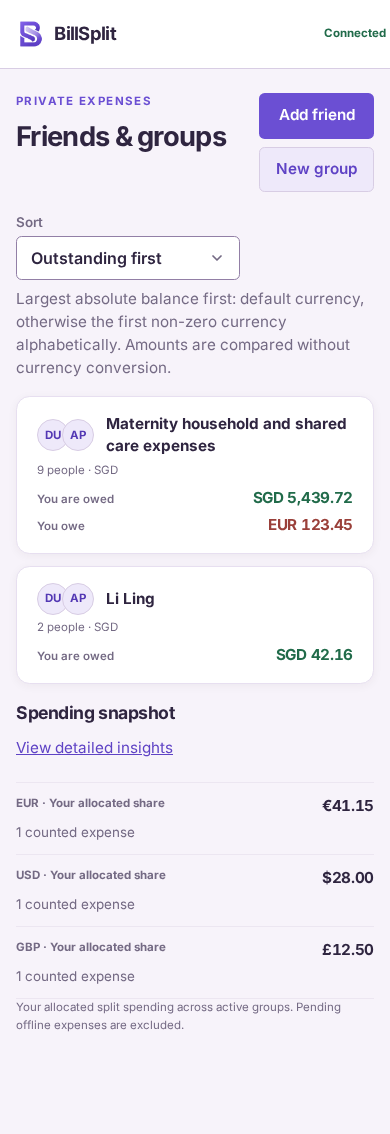
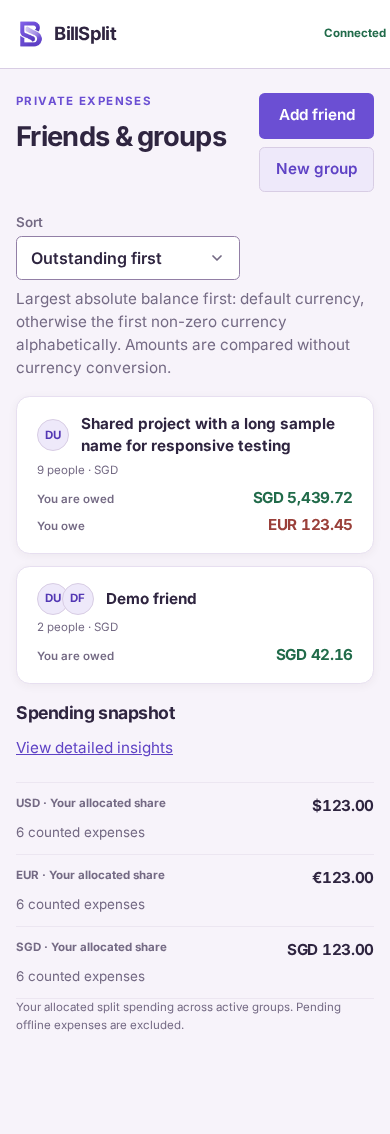
Use generic demo data for Home screenshots

diff --git a/tests/e2e/home-insights-surfaces.spec.ts b/tests/e2e/home-insights-surfaces.spec.ts
@@ -3,6 +3,14 @@ import type { Page, TestInfo } from '@playwright/test';
 import { test, expect, newAuthenticatedContext, seedOfflineTrust, BASE_URL, DEV_EMAIL } from './fixtures';
 
 async function captureHome(page: Page, testInfo: TestInfo, name: string) {
+  await expect(page.locator('.card__name').filter({ hasText: 'Demo friend' })).toHaveText('Demo friend');
+  await expect(page.locator('.card__name').filter({ hasText: name.startsWith('home-mobile') || name.startsWith('home-desktop') ? 'Sample project' : 'Shared project with a long sample name for responsive testing' })).toBeVisible();
+  await expect(page.getByLabel('Spending snapshot by currency')).toBeVisible();
+  await expect(page.locator('.group-card .avatar').filter({ hasText: 'DU' }).first()).toHaveAttribute('aria-label', 'Demo user');
+  await expect(page.locator('.group-card .avatar').filter({ hasText: 'DF' }).first()).toHaveAttribute('aria-label', 'Demo friend');
+  await expect(page.locator('.avatar img')).toHaveCount(0);
+  const text = await page.locator('body').innerText();
+  expect(text).not.toMatch(/Li Ling|Maternity|shared care|Dev User|Alex|Priya|[\w.+-]+@[\w.-]+\.[a-z]{2,}|\b[a-f0-9]{64}\b/i);
   await page.evaluate(() => document.fonts.ready);
   const destination = process.env.UPDATE_HOME_SCREENSHOTS === '1'
     ? path.join(process.cwd(), 'docs', 'screenshots', `${name}.png`)
@@ -15,26 +23,37 @@ const shortId = '00000000-0000-4000-8000-000000003001';
 const longId = '00000000-0000-4000-8000-000000003003';
 const insightsId = '00000000-0000-4000-8000-000000003002';
 
+// Construct screenshot data rather than inheriting backend names or avatar preferences.
+async function mockAnonymousHome(page: Page, stress = false) {
+  await page.route('**/api/me', async (route) => {
+    const response = await route.fetch();
+    const { id, personId, profileRevision, updatedAt, idleExpiresAt } = await response.json();
+    await route.fulfill({ response, json: { id, personId, profileRevision, updatedAt, idleExpiresAt, email: DEV_EMAIL, name: 'Demo user', avatarMode: 'initials' } });
+  });
+  await page.route('**/api/invitations', (route) => route.fulfill({ json: { invitations: [] } }));
+  await page.route('**/api/groups', async (route) => {
+    const response = await route.fetch();
+    await route.fulfill({ response, json: { groups: [
+    { id: shortId, name: 'Demo friend', currency: stress ? 'SGD' : 'USD', kind: 'named', memberCount: 2, counterpartName: 'Demo friend', counterpartAvatar: { avatarMode: 'initials' }, createdAt: '2026-01-01', updatedAt: '2026-01-01', balanceSummaries: [{ currency: stress ? 'SGD' : 'USD', netMinor: 4216 }] },
+    { id: longId, name: stress ? 'Shared project with a long sample name for responsive testing' : 'Sample project', currency: stress ? 'SGD' : 'EUR', kind: 'named', memberCount: 9, createdAt: '2026-01-01', updatedAt: '2026-01-01', balanceSummaries: stress ? [{ currency: 'SGD', netMinor: 543972 }, { currency: 'EUR', netMinor: -12345 }] : [{ currency: 'EUR', netMinor: -12345 }] },
+    ] } });
+  });
+  await page.route('**/api/spending-insights?*', (route) => route.fulfill({ json: { scope: 'global', summaries: ['USD', 'EUR', 'SGD'].map((currency) => ({ currency, groupSpendMinor: 24600, allocatedSpendMinor: 12300, yourShareMinor: 12300, youPaidMinor: 15000, expenseCount: 6 })) } }));
+}
+
 test('Home cards retain compact, accessible balance geometry across the navigation boundary', async ({ browser }, testInfo) => {
   for (const width of [320, 390, 768, 895, 896, 1440]) {
     const context = await newAuthenticatedContext(browser, DEV_EMAIL, { width, height: 844 }, { serviceWorkers: 'block' });
     try {
       const page = await context.newPage();
-      await page.route('**/api/groups', async (route) => {
-        const response = await route.fetch();
-        const body = await response.json();
-        await route.fulfill({ response, json: { ...body, groups: [
-          { ...body.groups[0], id: shortId, name: 'Li Ling', currency: 'SGD', kind: 'named', memberCount: 2, balanceSummaries: [{ currency: 'SGD', netMinor: 4216 }] },
-          { ...body.groups.find((group: { id: string }) => group.id === longId), name: 'Maternity household and shared care expenses', currency: 'SGD', kind: 'named', memberCount: 9, balanceSummaries: [{ currency: 'SGD', netMinor: 543972 }, { currency: 'EUR', netMinor: -12345 }] },
-        ] } });
-      });
+      await mockAnonymousHome(page, true);
       await page.goto(`${BASE_URL}/`);
       await expect(page.getByRole('heading', { name: 'Friends & groups' })).toBeVisible();
       const cards = page.locator('a.group-card');
       await expect(cards).toHaveCount(2);
       for (const [index, id] of [shortId, longId].entries()) {
         await expect(cards.nth(index)).toHaveAttribute('href', `/groups/${id}`);
-        await expect(cards.nth(index)).toHaveAccessibleName(index === 0 ? /Li Ling.*SGD.*42\.16/s : /Maternity household.*SGD.*5,439\.72.*EUR.*123\.45/s);
+        await expect(cards.nth(index)).toHaveAccessibleName(index === 0 ? /Demo friend.*SGD.*42\.16/s : /Shared project.*SGD.*5,439\.72.*EUR.*123\.45/s);
       }
       const geometry = await page.evaluate(() => {
         const cards = [...document.querySelectorAll<HTMLElement>('.group-card')];
@@ -96,6 +115,7 @@ test('Home cards retain compact, accessible balance geometry across the navigati
       await page.reload();
       await expect(sort).toHaveValue('outstanding');
       await expect(cards.first()).toHaveAttribute('href', `/groups/${longId}`);
+      await seedOfflineTrust(page);
       await page.unroute('**/api/groups');
       await page.route('**/api/groups', (route) => route.fulfill({ status: 503, contentType: 'application/json', body: JSON.stringify({ error: 'Unavailable' }) }));
       await page.reload();
@@ -118,6 +138,7 @@ test('Home cards retain compact, accessible balance geometry across the navigati
 for (const [device, width] of [['mobile', 390], ['desktop', 1440]] as const) {
   test(`Home reference screenshots at ${device} size`, async ({ authenticatedPage: page }, testInfo) => {
     await page.setViewportSize({ width, height: device === 'mobile' ? 844 : 900 });
+    await mockAnonymousHome(page);
     await page.goto('/');
     await expect(page.locator('.group-card').first()).toBeVisible();
     await expect(page.getByRole('combobox', { name: 'Sort', exact: true })).toHaveValue('name');

diff --git a/docs/responsive-audit-matrix.md b/docs/responsive-audit-matrix.md
@@ -209,12 +209,16 @@ sections, accessible tabs and chart are checked at 390 and 1440px; other Insight
 widths and Home loading/cached/offline/empty/error states remain in the existing
 route audit and targeted fixtures, not this focused geometry spec.
 
-Loaded local-browser references (Home/global references retain their earlier capture):
+Loaded local-browser references (all six Home images regenerated with anonymous,
+fully synthetic demo groups, balances and spending summaries; identity is Demo user
+and avatars use only demo initials, with no inherited names or avatar hashes):
 `docs/screenshots/home-mobile.png` (390px, full page) and `home-desktop.png`
-(1440px viewport) show seeded Home; `home-sgd-stress-mobile.png` (390px,
+(1440px viewport) show Demo friend and Sample project; `home-sgd-stress-mobile.png` (390px,
 full page) and `home-sgd-stress-desktop.png` (1440px viewport) show the
-two-group API overlay (Li Ling, SGD 42.16; nine-person Maternity household
-and shared care expenses, SGD 5,439.72 and EUR 123.45 owed). The loaded
+two-group synthetic API fixture (Demo friend, SGD 42.16; nine-person Shared project
+with a long sample name for responsive testing, SGD 5,439.72 and EUR 123.45 owed).
+`home-outstanding-mobile.png` and `home-outstanding-desktop.png` show the same
+demo scenario sorted outstanding-first. The loaded
 all-time USD references `spending-insights-global-mobile.png`,
 `spending-insights-group-mobile.png` (390px full page),
 `spending-insights-global-desktop.png`, and

diff --git a/AGENTS.md b/AGENTS.md
@@ -10,3 +10,9 @@
 - Represent every new or changed interactive view and meaningful disclosure/modal state in the responsive audit matrix, including narrow mobile, breakpoint boundaries, and desktop.
 - Verify primary actions appear before management controls and cover loading, cached, offline, empty, and error states.
 - Add a focused behavior test where practical.
+
+# Screenshot and Demo Data
+
+- Use exclusively synthetic, generic demo data for all screenshots, PR visual evidence, and demo captures. Never include real or personal-looking names/emails, personal avatars or avatar hashes, identifying initials, sensitive personal/medical contexts, or production/customer data.
+- Prefer neutral labels such as `Demo user`, `Demo friend`, and `Sample project`, with generic synthetic amounts. Existing test authentication contract emails at example.com may remain internal but must not be rendered.
+- Anonymize fixture/API data before rendering; do not rely on inherited fields or blur. Verify text and avatar identity before capture, and keep generation repeatable.
